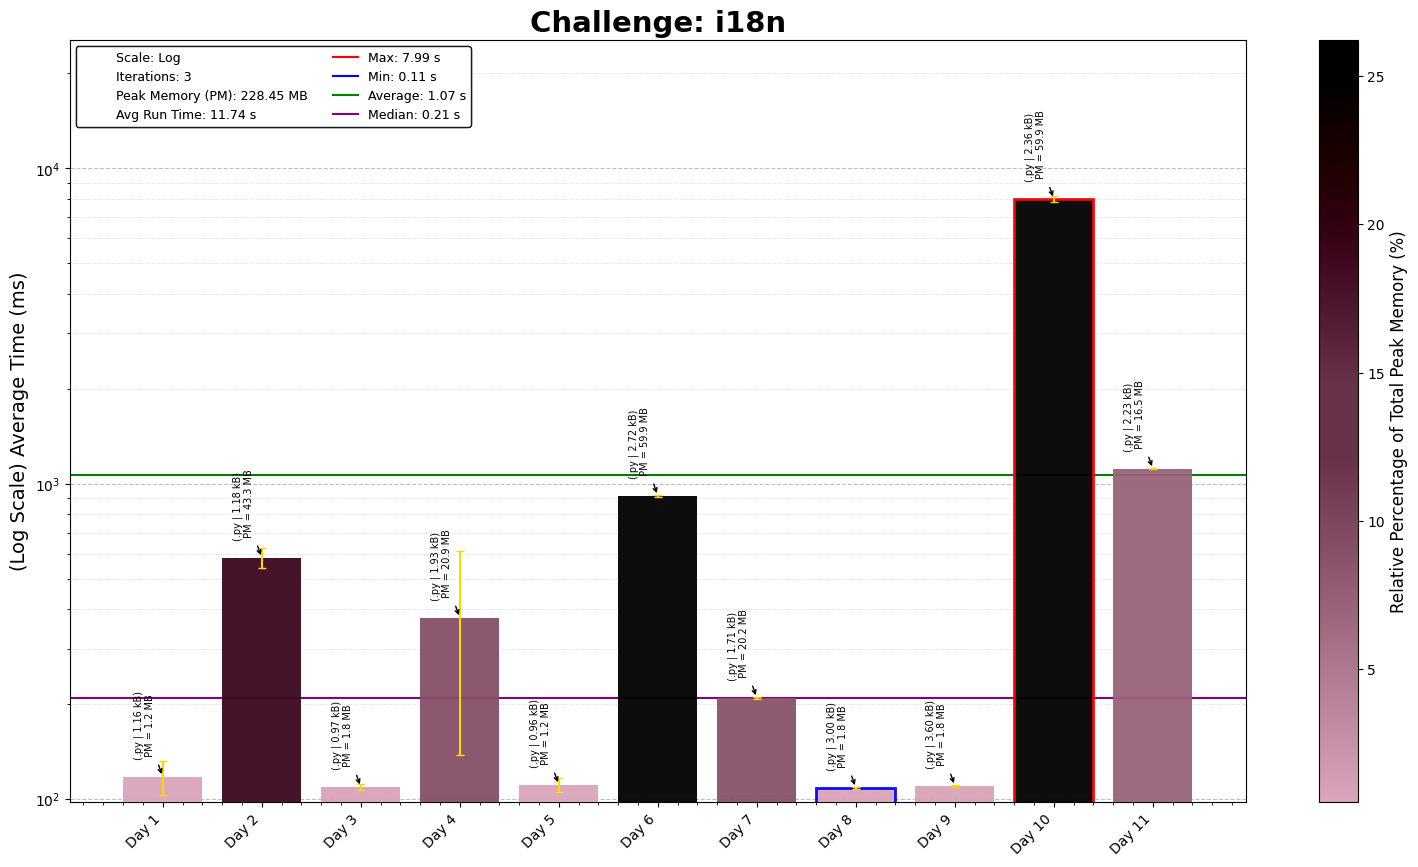
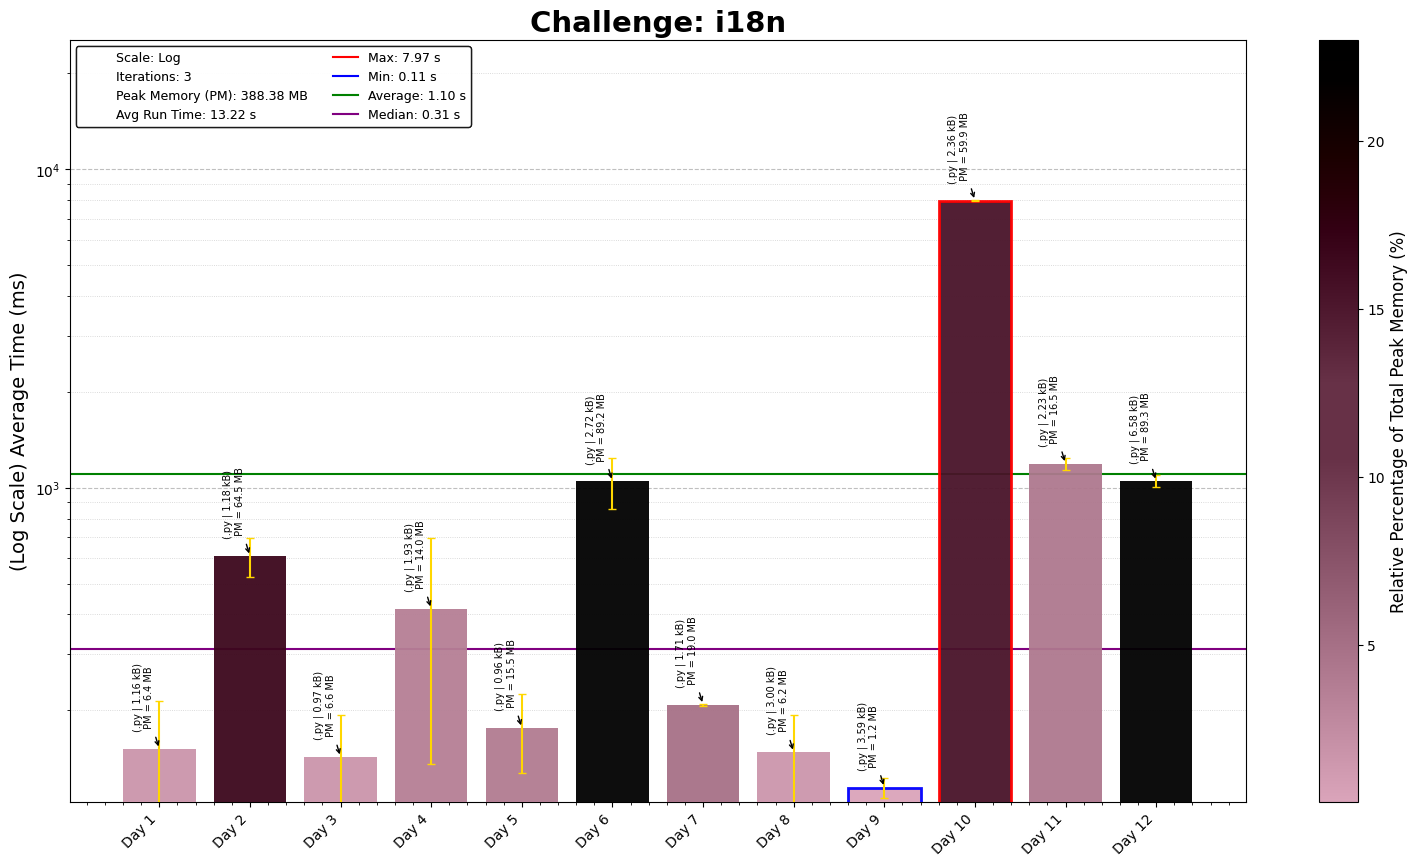
i15n Puzzles 12

diff --git a/i18n/12/i18nDay12.py b/i18n/12/i18nDay12.py
@@ -1,0 +1,210 @@
+"""i18n Puzzles - Puzzle 12
+Solution Started: Mar 18, 2025
+Puzzle Link: https://i18n-puzzles.com/puzzle/12/
+Solution by: Abbas Moosajee
+Brief: [Sorting It Out]
+"""
+
+#!/usr/bin/env python3
+
+import os, re, copy
+import numpy as np
+import pandas as pd
+import matplotlib.pyplot as plt
+
+# Load the input data from the specified file path
+D12_file = "Day12_input.txt"
+D12_file_path = os.path.join(os.path.dirname(os.path.abspath(__file__)), D12_file)
+
+# Read and sort input data into a grid
+with open(D12_file_path, encoding="utf-8") as file:
+    input_data = file.read().strip().split('\n')
+
+from typing import TypeVar, Iterator
+from collections.abc import Callable
+import unicodedata, functools, itertools
+
+LettersSplitter = Callable[[str], str]
+LettersComparator = Callable[[str, str], int]
+NamePreprocessor = Callable[[str, str], tuple[str, str]]
+
+ligatures = {"Æ": "Ae", "æ": "ae", "Œ": "Oe", "œ": "oe", "ẞ": "Ss",	"ß": "ss"}
+
+def parse_line(line: str):
+    name, number = line.rsplit(": ", 1)  # Split only at the last occurrence of ": "
+    last_name, first_name = map(str.strip, name.split(", ", 1))  # Handle last, first format
+    return(last_name, first_name, int(number))
+
+def phonebook_key(
+		letters_splitter: LettersSplitter,
+		letters_comparator: LettersComparator,
+		preprocess_name: NamePreprocessor = lambda last, first: (last, first)
+	):
+	def comp(entry1, entry2) -> int:
+		(entry1_last, entry1_first, _) = entry1
+		(entry2_last, entry2_first, _) = entry2
+		(entry1_last, entry1_first) = preprocess_name(entry1_last, entry1_first)
+		(entry2_last, entry2_first) = preprocess_name(entry2_last, entry2_first)
+		return (
+			comp_text(entry1_last, entry2_last, letters_splitter, letters_comparator)
+			or comp_text(entry1_first, entry2_first, letters_splitter, letters_comparator)
+		)
+
+	return functools.cmp_to_key(comp)
+
+def comp_text(text1: str, text2: str, letters_splitter: LettersSplitter, letters_comparator: LettersComparator) -> int:
+		for (letter1, letter2) in zip(
+			extend_iterator(letters_splitter(text1)),
+			extend_iterator(letters_splitter(text2)),
+		):
+			if letter1 is None:
+				return -1 if letter2 is not None else 0
+			if letter2 is None:
+				return 1
+			comp_result = letters_comparator(letter1, letter2)
+			if comp_result != 0:
+				return comp_result
+
+T = TypeVar("T")
+def extend_iterator(iter: T) -> T | None:
+	yield from iter
+	yield from itertools.repeat(None)
+
+def combined_characters(text: str):
+	current = []
+	for char in unicodedata.normalize("NFKD", text):
+		if unicodedata.combining(char) == 0:
+			if len(current) > 0:
+				yield unicodedata.normalize("NFC", "".join(current))
+				current.clear()
+		current.append(char)
+	yield unicodedata.normalize("NFC", "".join(current))
+
+def letters_en(text: str):
+	for char in combined_characters(text):
+		stripped = strip_diacritics(char)
+		if stripped in ligatures:
+			yield from ligatures[stripped]
+		elif is_latin_letter_az(stripped):
+			yield stripped
+		elif char.isalpha():
+			raise ValueError(f"Unhandled English letter: {char}")
+
+def compare_letters_en(letter1: str, letter2: str) -> int:
+	return (
+		letter_index_en(letter1.upper())
+		- letter_index_en(letter2.upper())
+	)
+
+def letter_index_en(letter: str) -> int:
+	return "ABCDEFGHIJKLMNOPQRSTUVWXYZ".index(letter)
+
+def letters_sv(text: str):
+	for char in combined_characters(text):
+		stripped = strip_diacritics(char)
+		if char in ["Å", "å", "Ä", "ä", "Ö", "ö", "Æ", "æ", "Ø", "ø"]:
+			yield char
+		elif stripped in ligatures:
+			yield from ligatures[stripped]
+		elif is_latin_letter_az(stripped):
+			yield stripped
+		elif char.isalpha():
+			raise ValueError(f"Unhandled Swedish letter: {char}")
+
+def compare_letters_sv(letter1: str, letter2: str) -> int:
+	return (
+		letter_index_sv(normalize_letter_sv(letter1))
+		- letter_index_sv(normalize_letter_sv(letter2))
+	)
+
+def letter_index_sv(letter: str) -> int:
+	return "ABCDEFGHIJKLMNOPQRSTUVWXYZÅÄÖ".index(letter)
+
+def normalize_letter_sv(letter: str) -> str:
+	match letter:
+		case "Æ" | "æ": return "Ä"
+		case "Ø" | "ø": return "Ö"
+		case _: return letter.upper()
+
+def letters_nl(text: str):
+	combined = list(combined_characters(text))
+	index = 0
+	while index < len(combined):
+		char = combined[index]
+		char2 = "".join(combined[index:(index + 2)])
+		index += 1
+		stripped = strip_diacritics(char)
+		if char2 == "IJ" or char2 == "ij":
+			yield char2
+			index += 1
+		elif stripped in ligatures:
+			yield from ligatures[stripped]
+		elif is_latin_letter_az(stripped):
+			yield stripped
+		elif char.isalpha():
+			raise ValueError(f"Unhandled English letter: {char}")
+
+def compare_letters_nl(letter1: str, letter2: str) -> int:
+	return (
+		letter_index_nl(normalize_letter_nl(letter1))
+		- letter_index_nl(normalize_letter_nl(letter2))
+	)
+
+def letter_index_nl(letter: str) -> int:
+	return "ABCDEFGHIJKLMNOPQRSTUVWXYZ".index(letter)
+
+def compare_letters_nl(letter1: str, letter2: str) -> int:
+	return ord(normalize_letter_nl(letter1)) - ord(normalize_letter_nl(letter2))
+
+def normalize_letter_nl(letter: str) -> str:
+	match letter:
+		case "IJ" | "ij": return "Y"
+		case _: return letter.upper()
+
+def preprocess_names_nl(last: str, first: str) -> tuple[str, str]:
+	return (remove_prefix(last), first)
+
+def remove_prefix(name: str) -> str:
+	for (i, char) in enumerate(name):
+		if char.isupper():
+			return name[i:]
+	return name
+
+def strip_diacritics(char: str) -> str:
+	norm = unicodedata.normalize("NFKD", char)
+	stripped = "".join(
+		strip_diacritics_rune(rune) for rune in norm
+		if unicodedata.combining(rune) == 0
+	)
+	return unicodedata.normalize("NFC", stripped)
+
+def strip_diacritics_rune(rune: str) -> str:
+	match rune:
+		case "Ø": return "O"
+		case "ø": return "o"
+		case "\u0131": return "i"
+		case _: return rune
+
+def is_latin_letter_az(char: str) -> bool:
+	return (
+		len(char) == 1 and (
+			(0x41 <= ord(char) <= 0x5a)
+			or (0x61 <= ord(char) <= 0x7a)
+		)
+	)
+
+def mid_value(arr: list[T]) -> T:
+	count = len(arr)
+	if count % 2 == 0:
+		raise Exception("No middle element")
+	return arr[count // 2]
+
+telephone_directory = [parse_line(lines) for lines in input_data]
+sorted_en = sorted(telephone_directory, key=phonebook_key(letters_en, compare_letters_en))
+sorted_sv = sorted(telephone_directory, key=phonebook_key(letters_sv, compare_letters_sv))
+sorted_nl = sorted(telephone_directory, key=phonebook_key(letters_nl, compare_letters_nl, preprocess_names_nl))
+middle_phone_num = (
+    mid_value(sorted_en)[2] * mid_value(sorted_sv)[2] * mid_value(sorted_nl)[2]
+)
+
+print("Middle Phone Number:", middle_phone_num)

diff --git a/i18n/09/i18nDay09.py b/i18n/09/i18nDay09.py
@@ -2,7 +2,7 @@
 Solution Started: Mar 16, 2025
 Puzzle Link: https://i18n-puzzles.com/puzzle/9/
 Solution by: Abbas Moosajee
-Brief: [Code/Problem Description]
+Brief: [Nine Eleven]
 """
 
 #!/usr/bin/env python3

diff --git a/i18n/README_i18n.md b/i18n/README_i18n.md
@@ -12,6 +12,8 @@ This repository contains coding solutions for the i18n puzzles.
 6. **Puzzle 6- Mojibake puzzle dictionary**: Fairly simple problem of matching words, once you make sure you have copied the input correctly. Took a while to realize that.
 7. **Puzzle 7- The audit trail fixer**: Handling timezones and daylight saving shifts, definitely a guiding direction.
 8. **Puzzle 8- Unicode passwords redux**: Validating passwords fairly simple, once I figured out how to normalise the letter.
+9. **Puzzle 9- Nine Eleven**: Identifying the correct date format used, and highlighting the importance of a single global standard
 10. **Puzzle 10- Unicode passwords strike back!**: Validating a series of login attempts by checking passwords, using the bcrypt algorithm.
-11. **Puzzle 11= Homer's Cipher**: Decoding a coded message that was fairly simple, except for the way sigma is handled still confused about that.
+11. **Puzzle 11- Homer's Cipher**: Decoding a coded message that was fairly simple, except for the way sigma is handled still confused about that.
+12. **Puzzle 12- Sorting It Out**: Sorting it out a list of names in a phone directory
 ---
